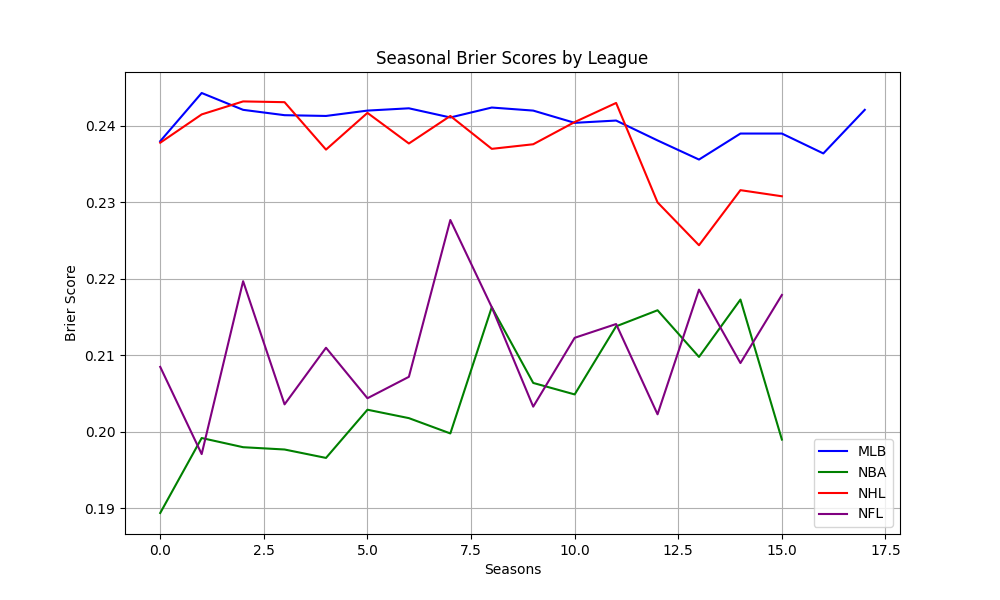
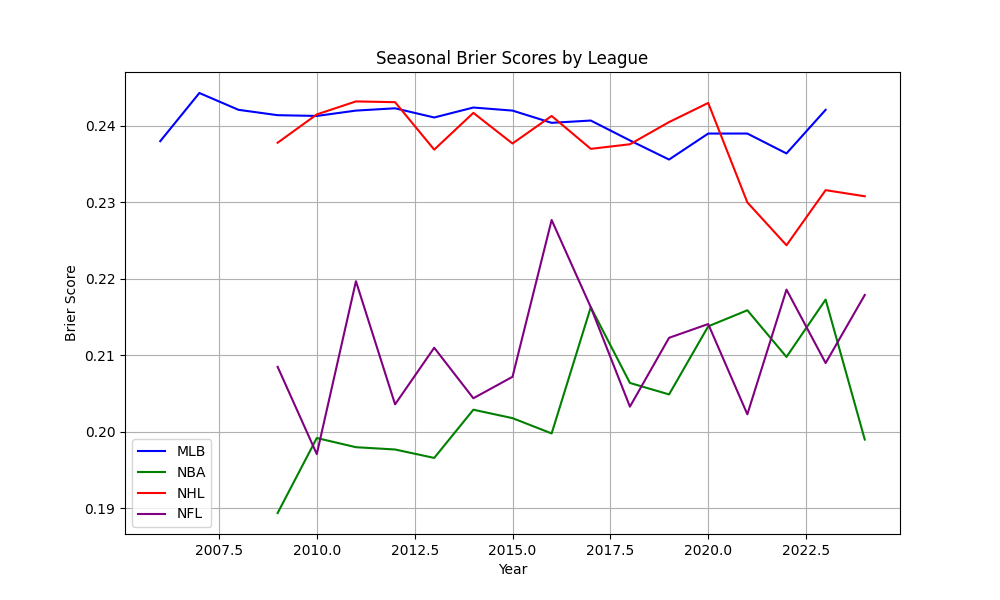
updated overall seasonal

diff --git a/src/graphing/overall_seasonal.py b/src/graphing/overall_seasonal.py
@@ -5,19 +5,26 @@ file_paths = ["results/mlb_seasonal.csv", "results/nba_seasonal.csv", "results/n
 leagues = ['MLB', 'NBA', 'NHL', 'NFL']
 colors = ['blue', 'green', 'red', 'purple']
 
-data = {}
+plt.figure(figsize=(10, 6))
 
 for i, file_path in enumerate(file_paths):
     df = pd.read_csv(file_path)
-    data[leagues[i]] = df["brier_score"]
+    
+    # Extract the year from the 'season' column (e.g., "MLB_2022" -> 2022)
+    df['year'] = df['season'].str.extract(r'_(\d{4})').astype(int)
+    
+    # Plot Brier Score against the year
+    plt.plot(df['year'], df['brier_score'], color=colors[i], label=leagues[i])
 
-plt.figure(figsize=(10, 6))
-for i, (label, brier_scores) in enumerate(data.items()):
-    plt.plot(brier_scores, color=colors[i], label=label)
-
-plt.xlabel("Seasons")
+# Add labels, title, legend, and grid
+plt.xlabel("Year")
 plt.ylabel("Brier Score")
 plt.title("Seasonal Brier Scores by League")
 plt.legend()
 plt.grid(True)
+
+# Save the figure
 plt.savefig('figures/league_seasonal.png')
+
+# Display the plot
+plt.show()
